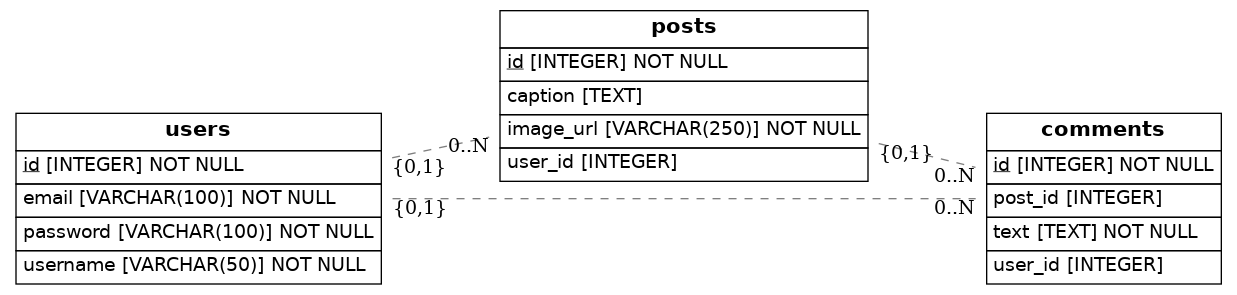
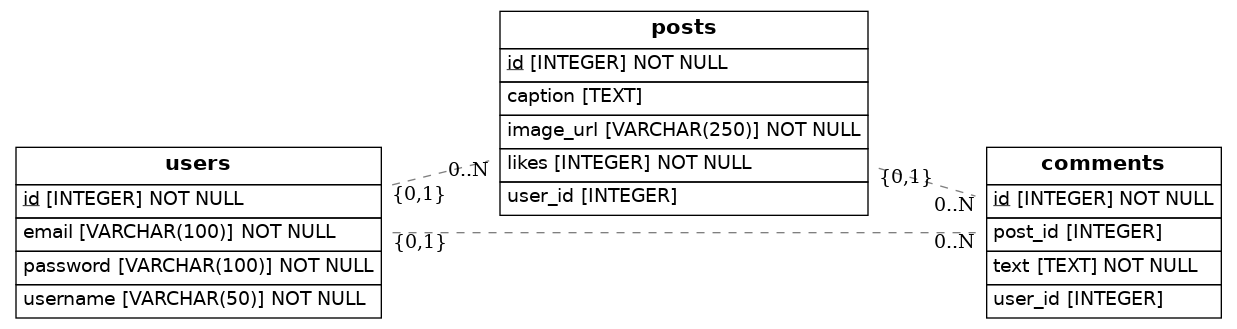
likes included

Changed region(s): [[0.0, 0.0305, 1.0, 0.9763], [0.0, 0.3661, 0.3072, 0.3966], [0.7987, 0.3661, 0.983, 0.3966]]

diff --git a/src/models.py b/src/models.py
@@ -20,9 +20,10 @@ class Post(Base):
     __tablename__ = 'posts'
     id = Column(Integer, primary_key=True)
     image_url = Column(String(250), nullable=False)
-    caption = Column(Text)
+    caption = Column(Text) 
     user_id = Column(Integer, ForeignKey('users.id'))
-    
+    likes = Column(Integer,nullable = False)
+
     user = relationship('User', back_populates='posts')
     comments = relationship('Comment', back_populates='post')
 
